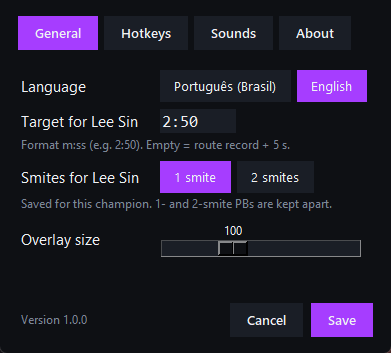
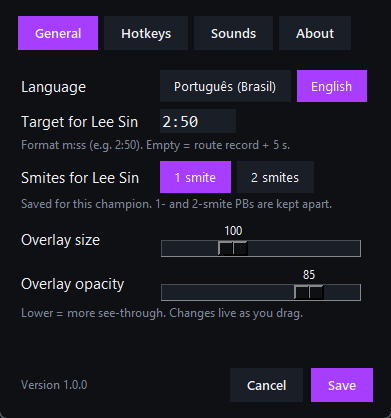
Add an overlay opacity setting with live preview
Settings > General gains an opacity slider (30-100%) that previews while dragging and
is restored on cancel. Default opacity drops from 92% to 85%. Version 1.0.1.

diff --git a/settings_window.py b/settings_window.py
@@ -34,13 +34,14 @@ def parse_target(text: str) -> float | None:
 
 
 class SettingsWindow(tk.Toplevel):
-    def __init__(self, master, values: dict, on_save, on_close, on_preview, on_open_sounds):
-        """values: language, champion, target (seconds or None), smites, scale, binds, default_binds,
-        sound_theme, sound_volume. on_save receives the same keys with the new values."""
+    def __init__(self, master, values: dict, on_save, on_close, on_preview, on_open_sounds, on_opacity):
+        """values: language, champion, target (seconds or None), smites, scale, opacity, binds, default_binds,
+        sound_theme, sound_volume. on_save receives the same keys with the new values; on_opacity(value)
+        previews an opacity while the slider moves."""
         super().__init__(master)
         self.values = dict(values)
         self.on_save, self.on_close = on_save, on_close
-        self.on_preview, self.on_open_sounds = on_preview, on_open_sounds
+        self.on_preview, self.on_open_sounds, self.on_opacity = on_preview, on_open_sounds, on_opacity
         self.binds = {a: values["binds"].get(a, "") for a in ACTIONS}
         self.capturing: str | None = None
         self.tab = "general"
@@ -54,6 +55,7 @@ class SettingsWindow(tk.Toplevel):
         self.target = tk.StringVar(self, value=fmt_clock(values["target"])[:-2] if values["target"] else "")
         self.smites = tk.IntVar(self, value=values["smites"])
         self.scale = tk.IntVar(self, value=round(values["scale"] * 100))
+        self.opacity = tk.IntVar(self, value=round(values["opacity"] * 100))
         self.theme = tk.StringVar(self, value=values["sound_theme"])
         self.volume = tk.IntVar(self, value=round(values["sound_volume"] * 100))
         self._build()
@@ -136,6 +138,12 @@ class SettingsWindow(tk.Toplevel):
                   lambda p: tk.Scale(p, from_=70, to=160, resolution=10, orient="horizontal", variable=self.scale,
                                      bg=BG, fg=TEXT, troughcolor=PANEL, highlightthickness=0, length=200,
                                      activebackground=ACCENT, takefocus=0))
+        self._row(body, 4, t("overlay_opacity"),
+                  lambda p: tk.Scale(p, from_=30, to=100, resolution=5, orient="horizontal", variable=self.opacity,
+                                     bg=BG, fg=TEXT, troughcolor=PANEL, highlightthickness=0, length=200,
+                                     activebackground=ACCENT, takefocus=0,
+                                     command=lambda v: self.on_opacity(float(v) / 100)),
+                  t("opacity_hint"))
 
     def _tab_hotkeys(self, body) -> None:
         tk.Label(body, text=t("hotkeys_hint"), bg=BG, fg=MUTED, font=FONT).grid(
@@ -230,6 +238,7 @@ class SettingsWindow(tk.Toplevel):
             "target": target,
             "smites": self.smites.get(),
             "scale": self.scale.get() / 100,
+            "opacity": self.opacity.get() / 100,
             "binds": dict(self.binds),
             "sound_theme": self.theme.get(),
             "sound_volume": self.volume.get() / 100,
@@ -239,5 +248,6 @@ class SettingsWindow(tk.Toplevel):
 
     def _cancel(self) -> None:
         set_language(self.original_language)
+        self.on_opacity(self.values["opacity"])
         self.destroy()
         self.on_close()

diff --git a/overlay.py b/overlay.py
@@ -113,7 +113,8 @@ class App:
         self.root.attributes("-topmost", True)
         self.root.configure(bg=BG)
         overlay_cfg = config.get("overlay", {})
-        self.opacity = 1.0 if opaque else float(overlay_cfg.get("opacity", 0.92))
+        self.opaque = opaque
+        self.opacity = float(self.ui_state.get("opacity", overlay_cfg.get("opacity", 0.85)))
         self.dpi_scale = self.root.winfo_fpixels("1i") / 96
         self._apply_scale(float(self.ui_state.get("scale", overlay_cfg.get("scale", 1.0))))
         self.canvas = tk.Canvas(self.root, bg=BG, highlightthickness=0, bd=0)
@@ -319,7 +320,10 @@ class App:
         style = user32.GetWindowLongW(self.hwnd, GWL_EXSTYLE) | WS_EX_LAYERED | WS_EX_TOOLWINDOW | WS_EX_NOACTIVATE
         style = style | WS_EX_TRANSPARENT if enabled else style & ~WS_EX_TRANSPARENT
         user32.SetWindowLongW(self.hwnd, GWL_EXSTYLE, style)
-        self.root.attributes("-alpha", self.opacity)
+        self._show_opacity(self.opacity)
+
+    def _show_opacity(self, value: float) -> None:
+        self.root.attributes("-alpha", 1.0 if self.opaque else max(0.2, min(value, 1.0)))
 
     def _keep_on_top(self) -> None:
         # Borderless games can push themselves above other topmost windows; re-assert now and then.
@@ -389,6 +393,7 @@ class App:
             "target": saved_target,
             "smites": self.smites(),
             "scale": self.user_scale,
+            "opacity": self.opacity,
             "binds": self.hotkey_binds(),
             "default_binds": self.default_hotkeys,
             "sound_theme": self.sounds.theme,
@@ -396,8 +401,9 @@ class App:
         }
 
         def save(new: dict) -> None:
-            self.ui_state.update(language=new["language"], scale=new["scale"], hotkeys=new["binds"],
-                                 sound_theme=new["sound_theme"], sound_volume=new["sound_volume"])
+            self.ui_state.update(language=new["language"], scale=new["scale"], opacity=new["opacity"],
+                                 hotkeys=new["binds"], sound_theme=new["sound_theme"],
+                                 sound_volume=new["sound_volume"])
             targets = self._per_champion("targets")
             if new["target"] is None:
                 targets.pop(norm(self.champion), None)
@@ -406,6 +412,8 @@ class App:
             self._save_ui_state()
             set_language(new["language"])
             self._apply_scale(new["scale"])
+            self.opacity = new["opacity"]
+            self._show_opacity(self.opacity)
             self.sounds.configure(new["sound_theme"], new["sound_volume"])
             self.tracker.target = self.target()
             if new["smites"] != self.smites():
@@ -418,7 +426,7 @@ class App:
             self._start_hotkeys()
 
         self.settings_window = SettingsWindow(self.root, values, save, closed, self._preview_sounds,
-                                              lambda: os.startfile(self.custom_sounds_dir))
+                                              lambda: os.startfile(self.custom_sounds_dir), self._show_opacity)
 
     def _preview_sounds(self, theme: str, volume: float) -> None:
         """Plays every alert of a theme in turn, without touching the saved sounds. Clicks while a

diff --git a/i18n.py b/i18n.py
@@ -86,6 +86,9 @@ STRINGS: dict[str, dict[str, str]] = {
     "smites_hint": {"pt": "Fica salvo para este campeão. Os PBs de 1 e 2 smites são separados.",
                     "en": "Saved for this champion. 1- and 2-smite PBs are kept apart."},
     "overlay_size": {"pt": "Tamanho do overlay", "en": "Overlay size"},
+    "overlay_opacity": {"pt": "Opacidade do overlay", "en": "Overlay opacity"},
+    "opacity_hint": {"pt": "Menos = mais transparente. Muda na hora, enquanto você arrasta.",
+                     "en": "Lower = more see-through. Changes live as you drag."},
     "hotkeys_hint": {"pt": "Clique em um atalho e aperte a nova combinação (Esc cancela).",
                      "en": "Click a hotkey and press the new combination (Esc cancels)."},
     "press_keys": {"pt": "aperte as teclas…", "en": "press the keys…"},

diff --git a/version.py b/version.py
@@ -1,4 +1,4 @@
-__version__ = "1.0.0"
+__version__ = "1.0.1"
 
 GITHUB_URL = "https://github.com/Thiscesarr/jungle-splits"
 SHEET_VIEW_URL = "https://docs.google.com/spreadsheets/d/1jE8bnlnIJnmWv9pnVW9veMKRXJNaaJf5tneQB3xUkbI"

diff --git a/README.md b/README.md
@@ -96,7 +96,7 @@ Keys are shown as on a US layout; they are the same physical keys on any layout.
   </tr>
 </table>
 
-Language, your **target time per champion**, smites, overlay size, hotkeys (click and press the new combination)
+Language, your **target time per champion**, smites, overlay size and opacity, hotkeys (click and press the new combination)
 and sounds (style, volume, preview, or your own `.wav` files).
 
 ### ❓ FAQ
@@ -207,7 +207,7 @@ bandeja**, perto do relógio do Windows.
   </tr>
 </table>
 
-Idioma, a sua **meta de tempo por campeão**, smites, tamanho do overlay, atalhos (clique e aperte a nova combinação)
+Idioma, a sua **meta de tempo por campeão**, smites, tamanho e opacidade do overlay, atalhos (clique e aperte a nova combinação)
 e sons (estilo, volume, teste, ou seus próprios arquivos `.wav`).
 
 ### ❓ Perguntas frequentes
